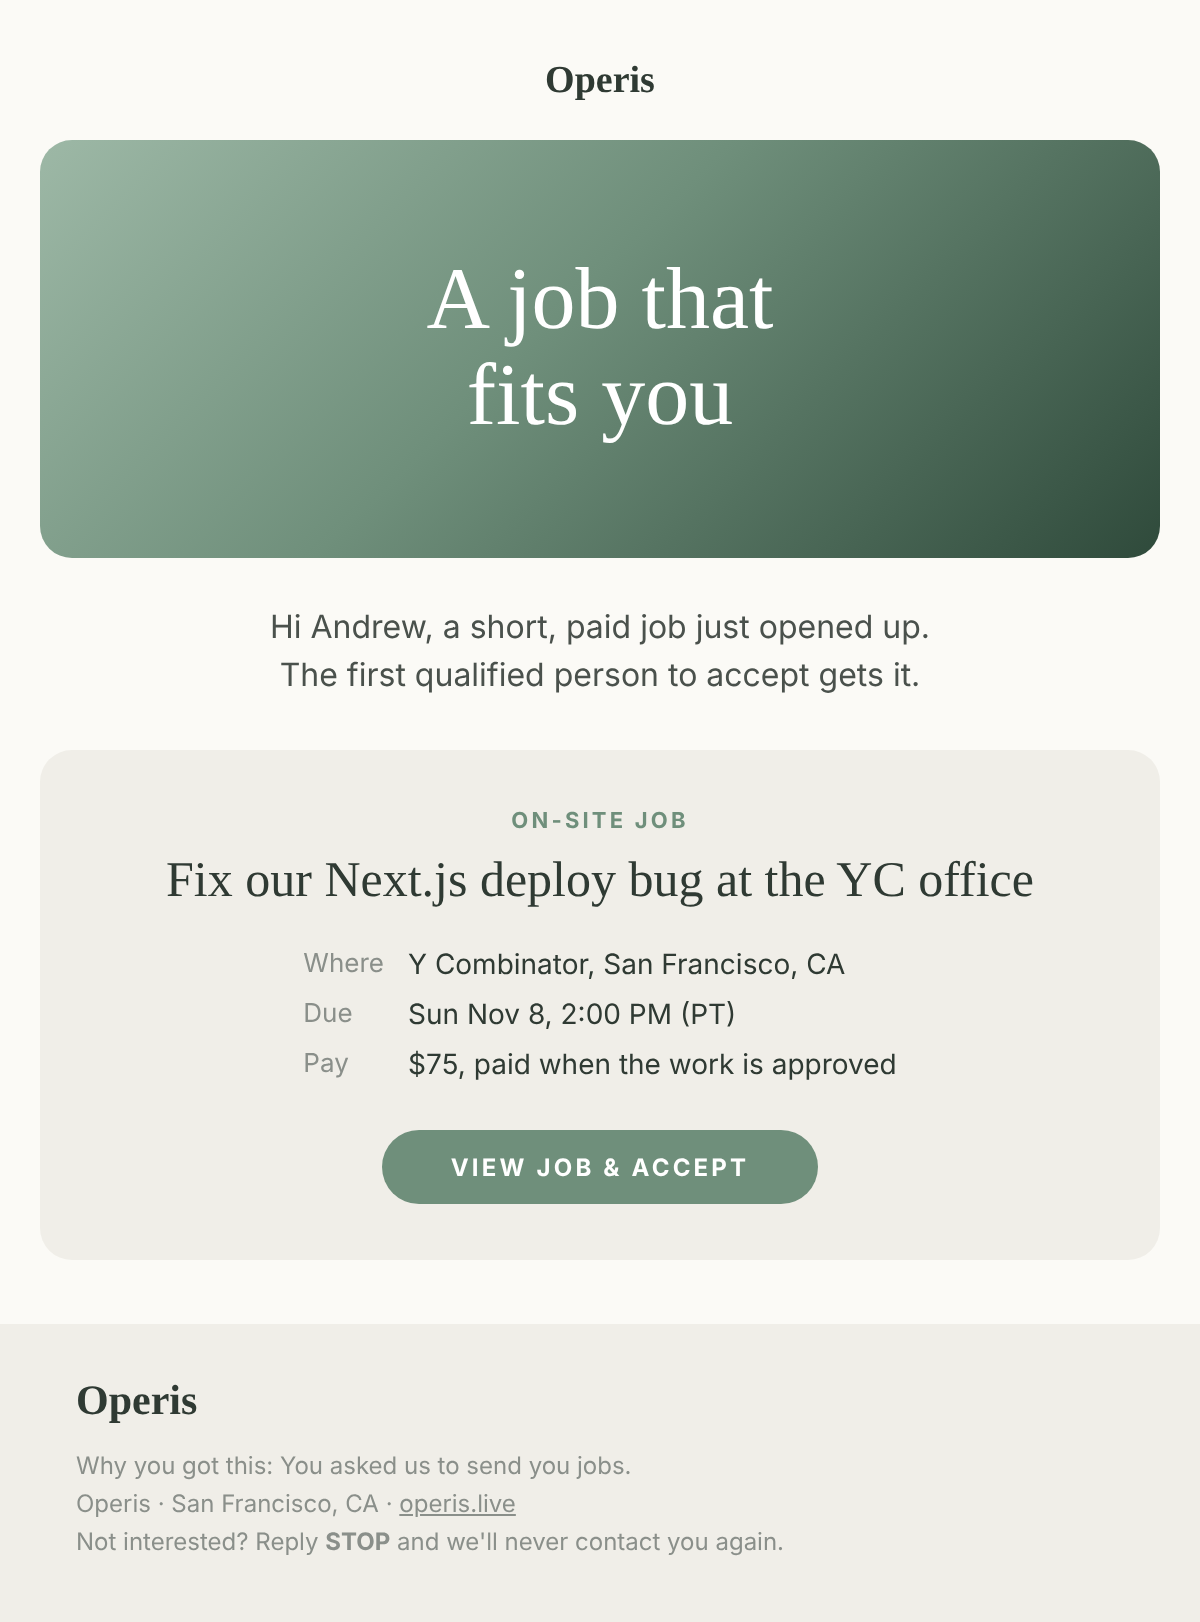
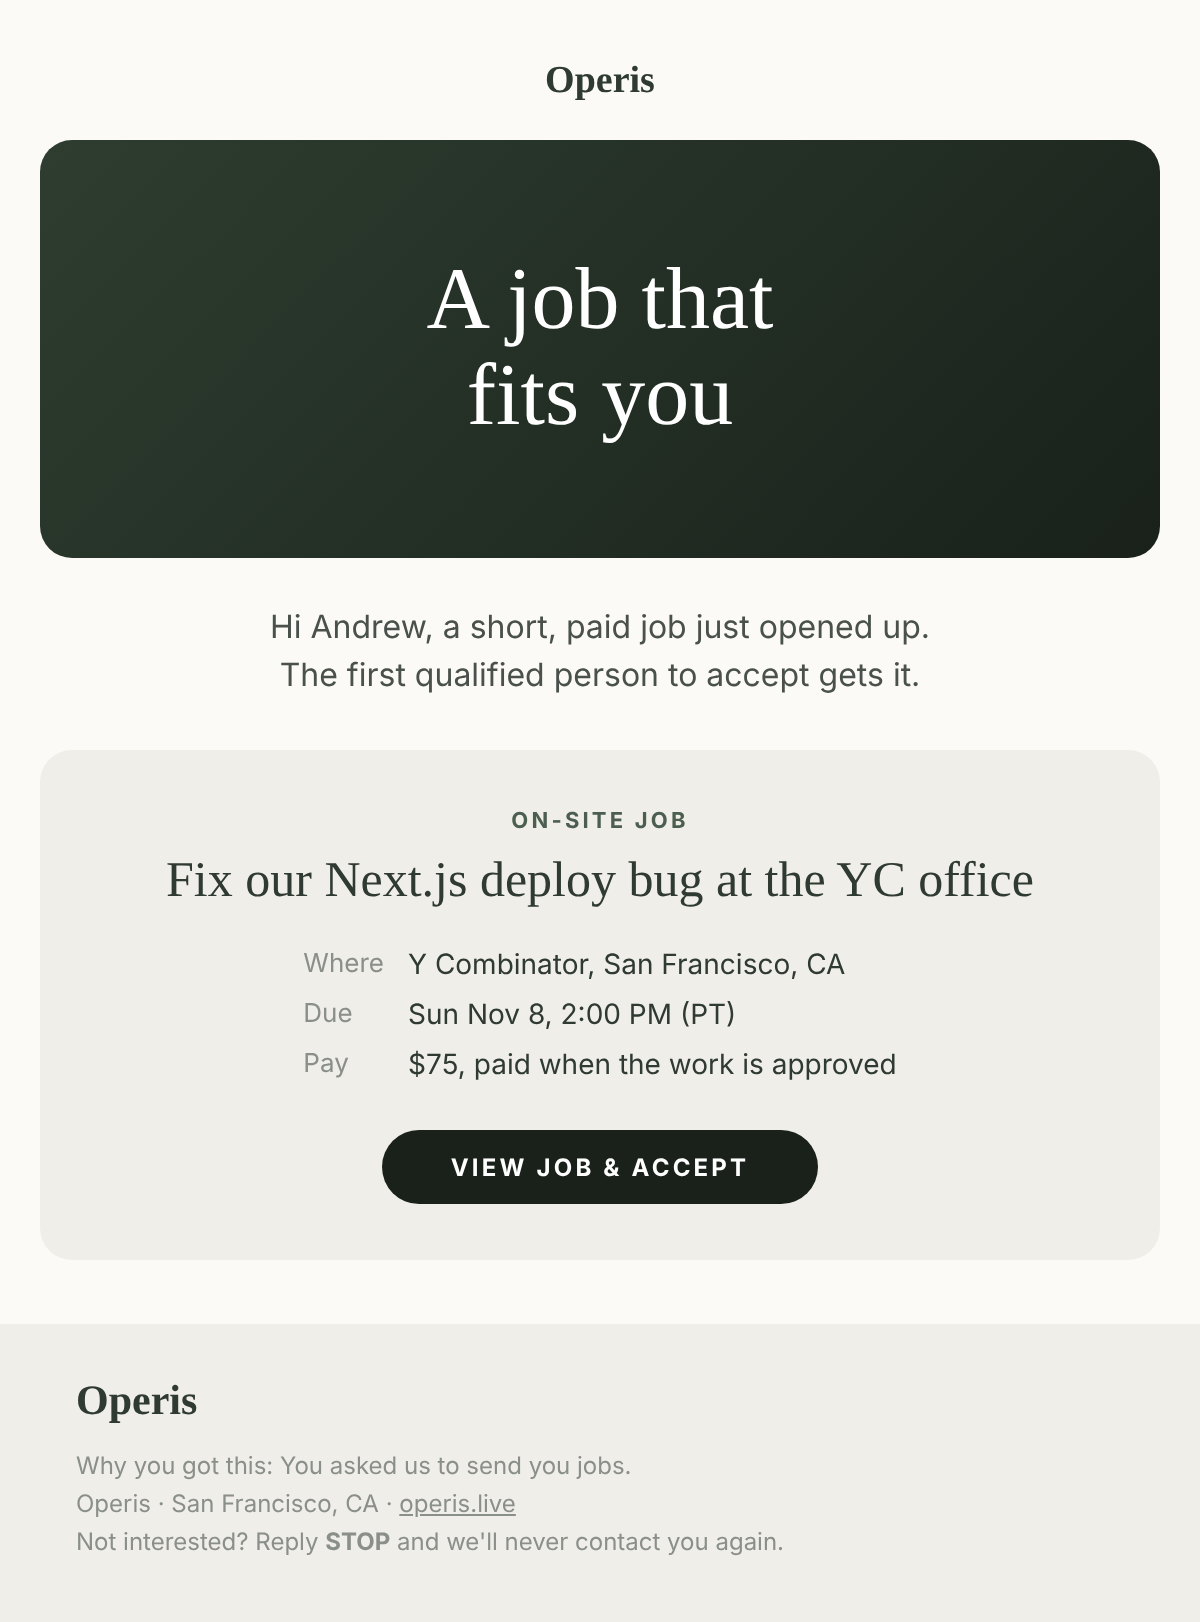
outreach: invite email in brand green #19211a
Claude-Session: https://claude.ai/code/session_013UukvTcgJd4HvYz8hmnpcf

diff --git a/docs/previews/invite-email.html b/docs/previews/invite-email.html
@@ -7,7 +7,7 @@
 
   <tr><td align="center" style="padding:6px 0 18px;font-family:Georgia,'Times New Roman',Times,serif;font-size:19px;font-weight:700;color:#2f3a33">Operis</td></tr>
 
-  <tr><td bgcolor="#2f4a3b" align="center" style="background:#2f4a3b;background-image:linear-gradient(135deg,#9db8a6 0%,#6f8f7b 45%,#2f4a3b 100%);border-radius:16px;padding:56px 28px">
+  <tr><td bgcolor="#19211a" align="center" style="background:#19211a;background-image:linear-gradient(135deg,#2e3d30 0%,#19211a 100%);border-radius:16px;padding:56px 28px">
     <div style="font-family:Georgia,'Times New Roman',Times,serif;font-size:44px;line-height:1.1;color:#ffffff">A job that<br>fits you</div>
   </td></tr>
 
@@ -16,10 +16,10 @@
   </td></tr>
 
   <tr><td style="background:#f0eee8;border-radius:16px;padding:28px 30px" align="center">
-    <div style="font-family:-apple-system,BlinkMacSystemFont,'Segoe UI',Helvetica,Arial,sans-serif;font-size:11px;font-weight:700;letter-spacing:1.6px;text-transform:uppercase;color:#6f8f7b;margin-bottom:8px">On-site job</div>
+    <div style="font-family:-apple-system,BlinkMacSystemFont,'Segoe UI',Helvetica,Arial,sans-serif;font-size:11px;font-weight:700;letter-spacing:1.6px;text-transform:uppercase;color:#4b5e4f;margin-bottom:8px">On-site job</div>
     <div style="font-family:Georgia,'Times New Roman',Times,serif;font-size:25px;line-height:1.25;color:#2f3a33;margin-bottom:14px">Fix our Next.js deploy bug at the YC office</div>
     <table role="presentation" cellpadding="0" cellspacing="0" style="margin:0 auto 20px;text-align:left"><tr><td style="padding:4px 12px 4px 0;font-family:-apple-system,BlinkMacSystemFont,'Segoe UI',Helvetica,Arial,sans-serif;font-size:13px;color:#8a8f8a;white-space:nowrap;vertical-align:top">Where</td><td style="padding:4px 0;font-family:-apple-system,BlinkMacSystemFont,'Segoe UI',Helvetica,Arial,sans-serif;font-size:14px;color:#2f3a33">Y Combinator, San Francisco, CA</td></tr><tr><td style="padding:4px 12px 4px 0;font-family:-apple-system,BlinkMacSystemFont,'Segoe UI',Helvetica,Arial,sans-serif;font-size:13px;color:#8a8f8a;white-space:nowrap;vertical-align:top">Due</td><td style="padding:4px 0;font-family:-apple-system,BlinkMacSystemFont,'Segoe UI',Helvetica,Arial,sans-serif;font-size:14px;color:#2f3a33">Sun Nov 8, 2:00 PM (PT)</td></tr><tr><td style="padding:4px 12px 4px 0;font-family:-apple-system,BlinkMacSystemFont,'Segoe UI',Helvetica,Arial,sans-serif;font-size:13px;color:#8a8f8a;white-space:nowrap;vertical-align:top">Pay</td><td style="padding:4px 0;font-family:-apple-system,BlinkMacSystemFont,'Segoe UI',Helvetica,Arial,sans-serif;font-size:14px;color:#2f3a33">$75, paid when the work is approved</td></tr></table>
-    <a href="https://operis.live/j/Xk3pQ9aB2c-7fJ2kL0q" style="display:inline-block;background:#6f8f7b;color:#ffffff;text-decoration:none;font-family:-apple-system,BlinkMacSystemFont,'Segoe UI',Helvetica,Arial,sans-serif;font-size:12px;font-weight:700;letter-spacing:1.6px;text-transform:uppercase;padding:11px 34px;border-radius:999px">View job &amp; accept</a>
+    <a href="https://operis.live/j/Xk3pQ9aB2c-7fJ2kL0q" style="display:inline-block;background:#19211a;color:#ffffff;text-decoration:none;font-family:-apple-system,BlinkMacSystemFont,'Segoe UI',Helvetica,Arial,sans-serif;font-size:12px;font-weight:700;letter-spacing:1.6px;text-transform:uppercase;padding:11px 34px;border-radius:999px">View job &amp; accept</a>
   </td></tr>
 
   <tr><td style="height:32px;line-height:32px;font-size:0">&nbsp;</td></tr>

diff --git a/services/outreach/src/templates.ts b/services/outreach/src/templates.ts
@@ -168,8 +168,9 @@ export function renderEmailHtml(ctx: MessageContext): string {
     ink: '#2f3a33',
     body: '#4a514c',
     muted: '#8a8f8a',
-    sage: '#6f8f7b',
-    deep: '#2f4a3b',
+    sage: '#19211a', // brand green (buttons)
+    label: '#4b5e4f',
+    deep: '#19211a', // brand green (hero)
   };
   const serif = "Georgia,'Times New Roman',Times,serif";
   const sans = "-apple-system,BlinkMacSystemFont,'Segoe UI',Helvetica,Arial,sans-serif";
@@ -193,7 +194,7 @@ export function renderEmailHtml(ctx: MessageContext): string {
 
   <tr><td align="center" style="padding:6px 0 18px;font-family:${serif};font-size:19px;font-weight:700;color:${C.ink}">Operis</td></tr>
 
-  <tr><td bgcolor="${C.deep}" align="center" style="background:${C.deep};background-image:linear-gradient(135deg,#9db8a6 0%,#6f8f7b 45%,#2f4a3b 100%);border-radius:16px;padding:56px 28px">
+  <tr><td bgcolor="${C.deep}" align="center" style="background:${C.deep};background-image:linear-gradient(135deg,#2e3d30 0%,#19211a 100%);border-radius:16px;padding:56px 28px">
     <div style="font-family:${serif};font-size:44px;line-height:1.1;color:#ffffff">A job that<br>fits you</div>
   </td></tr>
 
@@ -202,7 +203,7 @@ export function renderEmailHtml(ctx: MessageContext): string {
   </td></tr>
 
   <tr><td style="background:${C.card};border-radius:16px;padding:28px 30px" align="center">
-    <div style="font-family:${sans};font-size:11px;font-weight:700;letter-spacing:1.6px;text-transform:uppercase;color:${C.sage};margin-bottom:8px">${job.remote ? 'Remote job' : 'On-site job'}</div>
+    <div style="font-family:${sans};font-size:11px;font-weight:700;letter-spacing:1.6px;text-transform:uppercase;color:${C.label};margin-bottom:8px">${job.remote ? 'Remote job' : 'On-site job'}</div>
     <div style="font-family:${serif};font-size:25px;line-height:1.25;color:${C.ink};margin-bottom:14px">${esc(job.title)}</div>
     <table role="presentation" cellpadding="0" cellspacing="0" style="margin:0 auto 20px;text-align:left">${details}</table>
     ${pill('View job & accept')}
